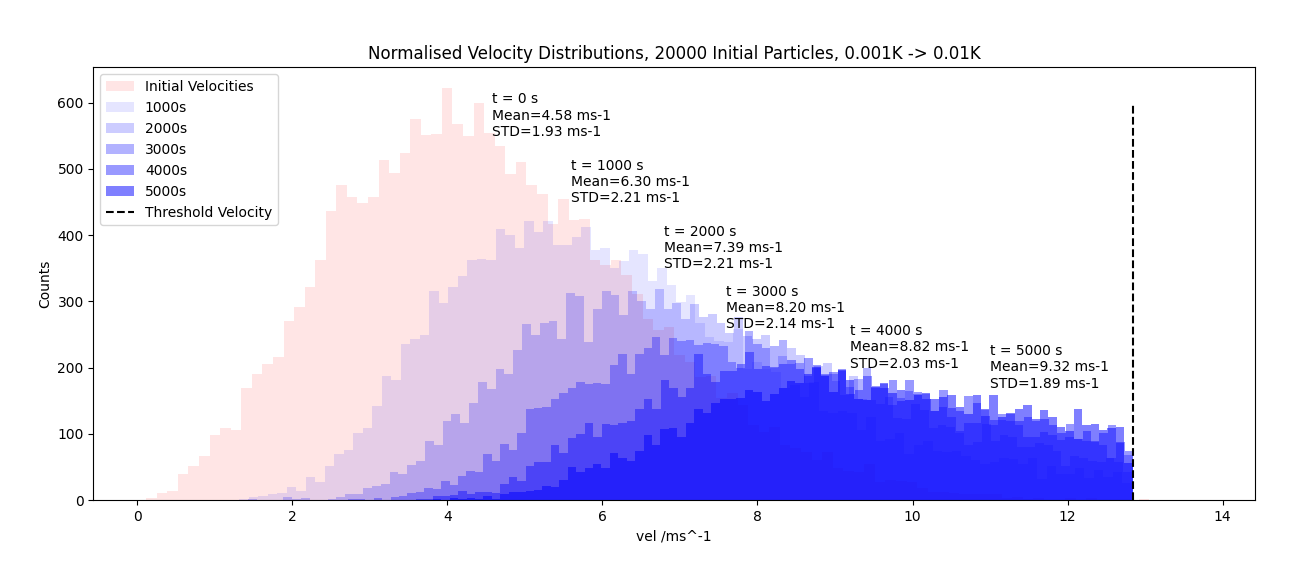
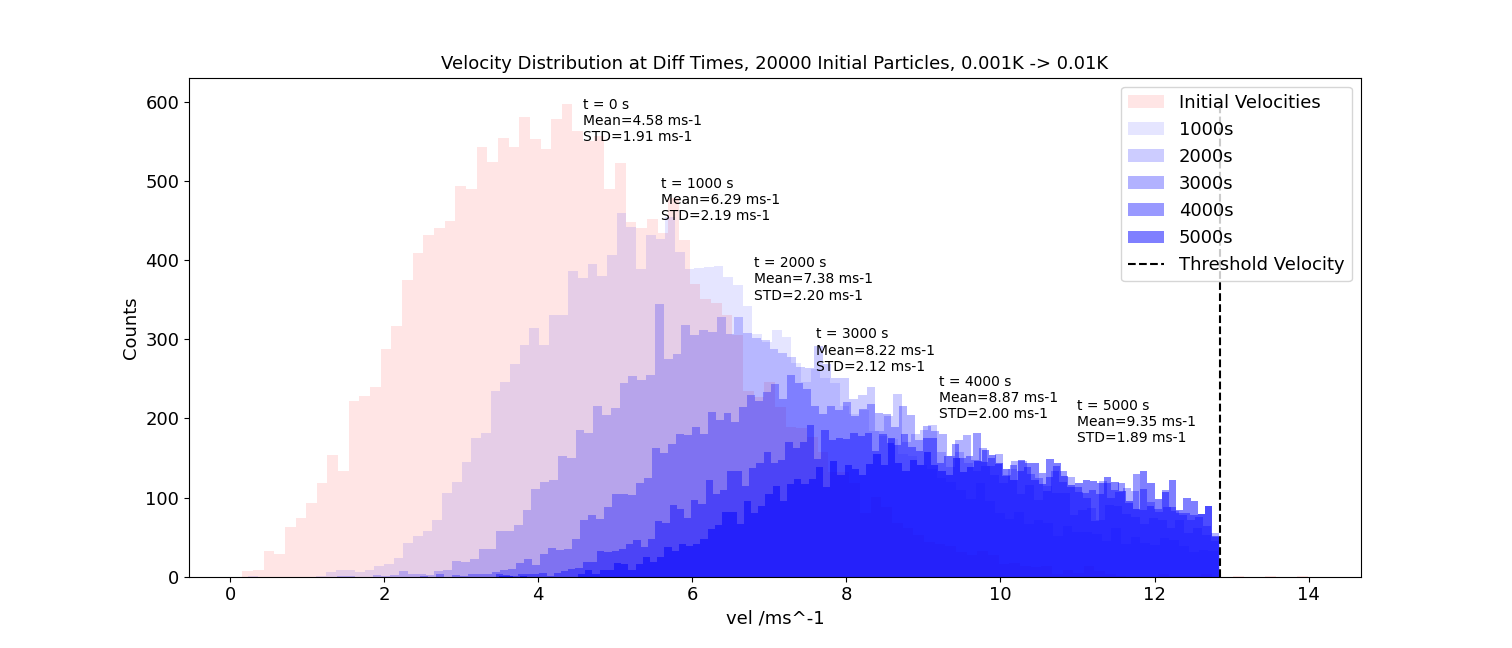
update figures

diff --git a/timetoescape/sim.py b/timetoescape/sim.py
@@ -377,21 +377,37 @@ def HistEscapeTimes(filename):
         binx = np.append((bins[1][i] + bins[1][i+1])/2, binx)
     biny = np.flip(bins[0])
 
-    coefs = SciPio.curve_fit(EscapeTimesModel, binx, biny, p0=[-5000,0.0002])
-    print(coefs[0])
-    y = EscapeTimesModel(binx, coefs[0][0], coefs[0][1])
-    perr = np.sqrt(np.diag(coefs[1]))
-
-    '''
-    RedChiSq = 0
-    for i in range(len(binx)):
-        RedChiSq += (bins[0][i]- EscapeTimesModel())**2/EscapeTimesModel()
-    '''
+    coefs, cov, info, mesg, ier = SciPio.curve_fit(EscapeTimesModel, binx, biny, p0=[-5000,0.0002], full_output=True)
+    y = EscapeTimesModel(binx, coefs[0], coefs[1])
+    perr = np.sqrt(np.diag(cov))
 
     plot.title(r"Escape Times, {0} Particles, {3} Escaped {1}K -> {2}K".format(NUMBER, INITEMP, THRESHOLD, len(dat[0])))
-    plot.text(6500,0.00013,"Model $PDF(t) = b\exp[t/a]$\na = {0:3.2e}$\pm${2:3.2e} s \nb={1:3.2e}$\pm${3:3.2e}".format(coefs[0][0], coefs[0][1], perr[0],perr[1]), fontsize=15)
+    plot.text(6500,0.00013,"Model $PDF(t) = b\exp[t/a]$\na = {0:3.2e}$\pm${2:3.2e} s \nb={1:3.2e}$\pm${3:3.2e}".format(coefs[0], coefs[1], perr[0],perr[1]), fontsize=15)
     plot.plot(binx,y,'k--', label="model")
+
     plot.xlabel('Escape Time /s')
+    plot.ylabel('Density')
+    plot.legend()
+    plot.show()
+
+def HistKicksDistStucks(filename):
+    dat = ReadFile(filename)
+    escapes = ReadFile("lastrunTimes.csv")
+
+    # get mean and std of plots
+
+    Fig = plot.figure()
+    plot.xlim((-40000,40000))
+    plot.hist(dat[3], bins=200, alpha=0.5, color='green',density=True, label="{0} Stuck".format(np.size(dat[3])))
+    plot.text(13500,0.000023,"Stuck Mean= {0:3.0f}\nSTD= {1:3.0f}".format(np.mean(dat[3]),np.std(dat[3])),fontsize=14)
+    plot.hist(escapes[2], bins=200, alpha=0.15, color='red',density=True, label="{0} Escapes".format(np.size(escapes[2])))
+    plot.text(6300,0.000045,"Escaped Mean= {0:3.0f}\nSTD= {1:3.0f}".format(np.mean(escapes[2]),np.std(escapes[2])),fontsize=14)
+    plot.title(r"Velocities, Stuck Particles, {0} Particles, {1}K -> {2}K".format(NUMBER, INITEMP, THRESHOLD, len(dat[1])))
+
+    plot.text(6,25, "Mean={0:3.2f}ms-1\nSTD={1:3.2f}ms-1".format(np.mean(dat[1]),np.std(dat[1])),fontsize=14)
+    
+    #plot.plot([ESCAPEVEL, ESCAPEVEL], [0, 0.000075], 'k--', label="Threshold Velocity")
+    plot.xlabel('n Kicks')
     plot.ylabel('Density')
     plot.legend()
     plot.show()
@@ -399,13 +415,16 @@ def HistEscapeTimes(filename):
 def HistVelDistStucks(filename):
     dat = ReadFile(filename)
 
-    # get mean and std of plots
+    print(np.mean(dat[0]))
 
     Fig = plot.figure()
-    plot.hist(dat[1], bins=200, density=True, alpha=0.5, color='blue')
-    plot.title(r"Velocities, Stuck Particles, {0} Particles {3} Stuck, {1}K -> {2}K".format(NUMBER, INITEMP, THRESHOLD, len(dat[1])))
-    plot.xlabel('Vel /ms^-1')
-    plot.ylabel('Density')
+    plot.hist(dat[1], bins=200, alpha=0.5, color='green', label="{0} Stuck".format(np.size(dat[3])))
+    plot.text(6,20,"Stuck Mean= {0:3.2f}\nSTD= {1:3.2f}".format(np.mean(dat[1]),np.std(dat[1])),fontsize=14)
+    print(np.mean(dat[1]))
+    plot.plot([ESCAPEVEL, ESCAPEVEL], [0, 50], 'k--', label="Threshold Velocity")
+    plot.xlabel('Velocity /ms$^{-1}$')
+    plot.ylabel('Counts')
+    plot.legend()
     plot.show()
 
 def HistSnapShotVel(filename, initials, timeIndex=0):
@@ -459,7 +478,7 @@ def HistAllSnapShotVel(filename, initials):
     
     plot.plot([ESCAPEVEL, ESCAPEVEL], [0, 600], 'k--', label="Threshold Velocity")
 
-    plot.title(r"Normalised Velocity Distributions, {0} Initial Particles, {1}K -> {2}K".format(NUMBER, INITEMP, THRESHOLD))
+    plot.title(r"Velocity Distribution at Diff Times, {0} Initial Particles, {1}K -> {2}K".format(NUMBER, INITEMP, THRESHOLD))
     plot.xlabel('vel /ms^-1')
     plot.ylabel('Counts')
     plot.legend()
@@ -474,19 +493,20 @@ def VelOverTime():
                     [7.383582966421579,2000],
                     [8.21977892793488,3000],
                     [8.870650580819806,4000],
-                    [9.351998770023739,5000]])
+                    [9.351998770023739,5000],
+                    [10.885141731800278, 10000]])
     
-    coefs = SciPio.curve_fit(VelOverTimeModel, data[:,1], data[:,0], p0=[-500,-1,9])
+    coefs, cov, info, mesg, ier = SciPio.curve_fit(VelOverTimeModel, data[:,1], data[:,0], p0=[-500,-1,9], full_output=True)
     x = np.linspace(0,6000,50)
     print(coefs)
-    y = VelOverTimeModel(x, coefs[0][0], coefs[0][1], coefs[0][2],)
+    y = VelOverTimeModel(x, coefs[0], coefs[1], coefs[2],)
 
-    perr = np.sqrt(np.diag(coefs[1]))
+    perr = np.sqrt(np.diag(cov))
 
     figure = plot.figure()
     plot.scatter(data[:,1], data[:,0], marker='x', label="data",zorder=1)
     plot.plot(x,y,'k--',zorder=2,label="model")
-    plot.text(2000,5,"Model $v = b\exp[t/a]$ + d\na = {0:3.2f} $\pm$ {3:3.2f}s\nb={1:3.2f} $\pm$ {4:3.2f} ms-1\nd={2:3.2f}$\pm${5:3.2f} ms-1".format(coefs[0][0], coefs[0][1], coefs[0][2], perr[0],perr[1],perr[2]), fontsize=15)
+    plot.text(2000,5,"Model $v = b\exp[t/a]$ + d\na = {0:3.2f} $\pm$ {3:3.2f}s\nb={1:3.2f} $\pm$ {4:3.2f} ms-1\nd={2:3.2f}$\pm${5:3.2f} ms-1".format(coefs[0], coefs[1], coefs[2], perr[0],perr[1],perr[2]), fontsize=15)
     plot.xlabel(r"time \s", fontsize=13)
     plot.ylabel(r"mean velocity \ms$^{-1}$", fontsize=13)
     plot.title("Mean Velocity Over Time")
@@ -570,8 +590,8 @@ def __main__():
     
 
 #__main__()
-#HistVelDistStucks("lastrunStucks.csv")
-HistEscapeTimes("lastrunTimes.csv")
+HistKicksDistStucks("lastrunStucks.csv")
+#HistEscapeTimes("lastrunTimes.csv")
 #HistSnapShotVel("lastrunSnapshot.csv", "initvelocities.csv", timeIndex=2)
 #HistAllSnapShotVel("lastrunSnapshot.csv", "initvelocities.csv")
 #VelOverTime()